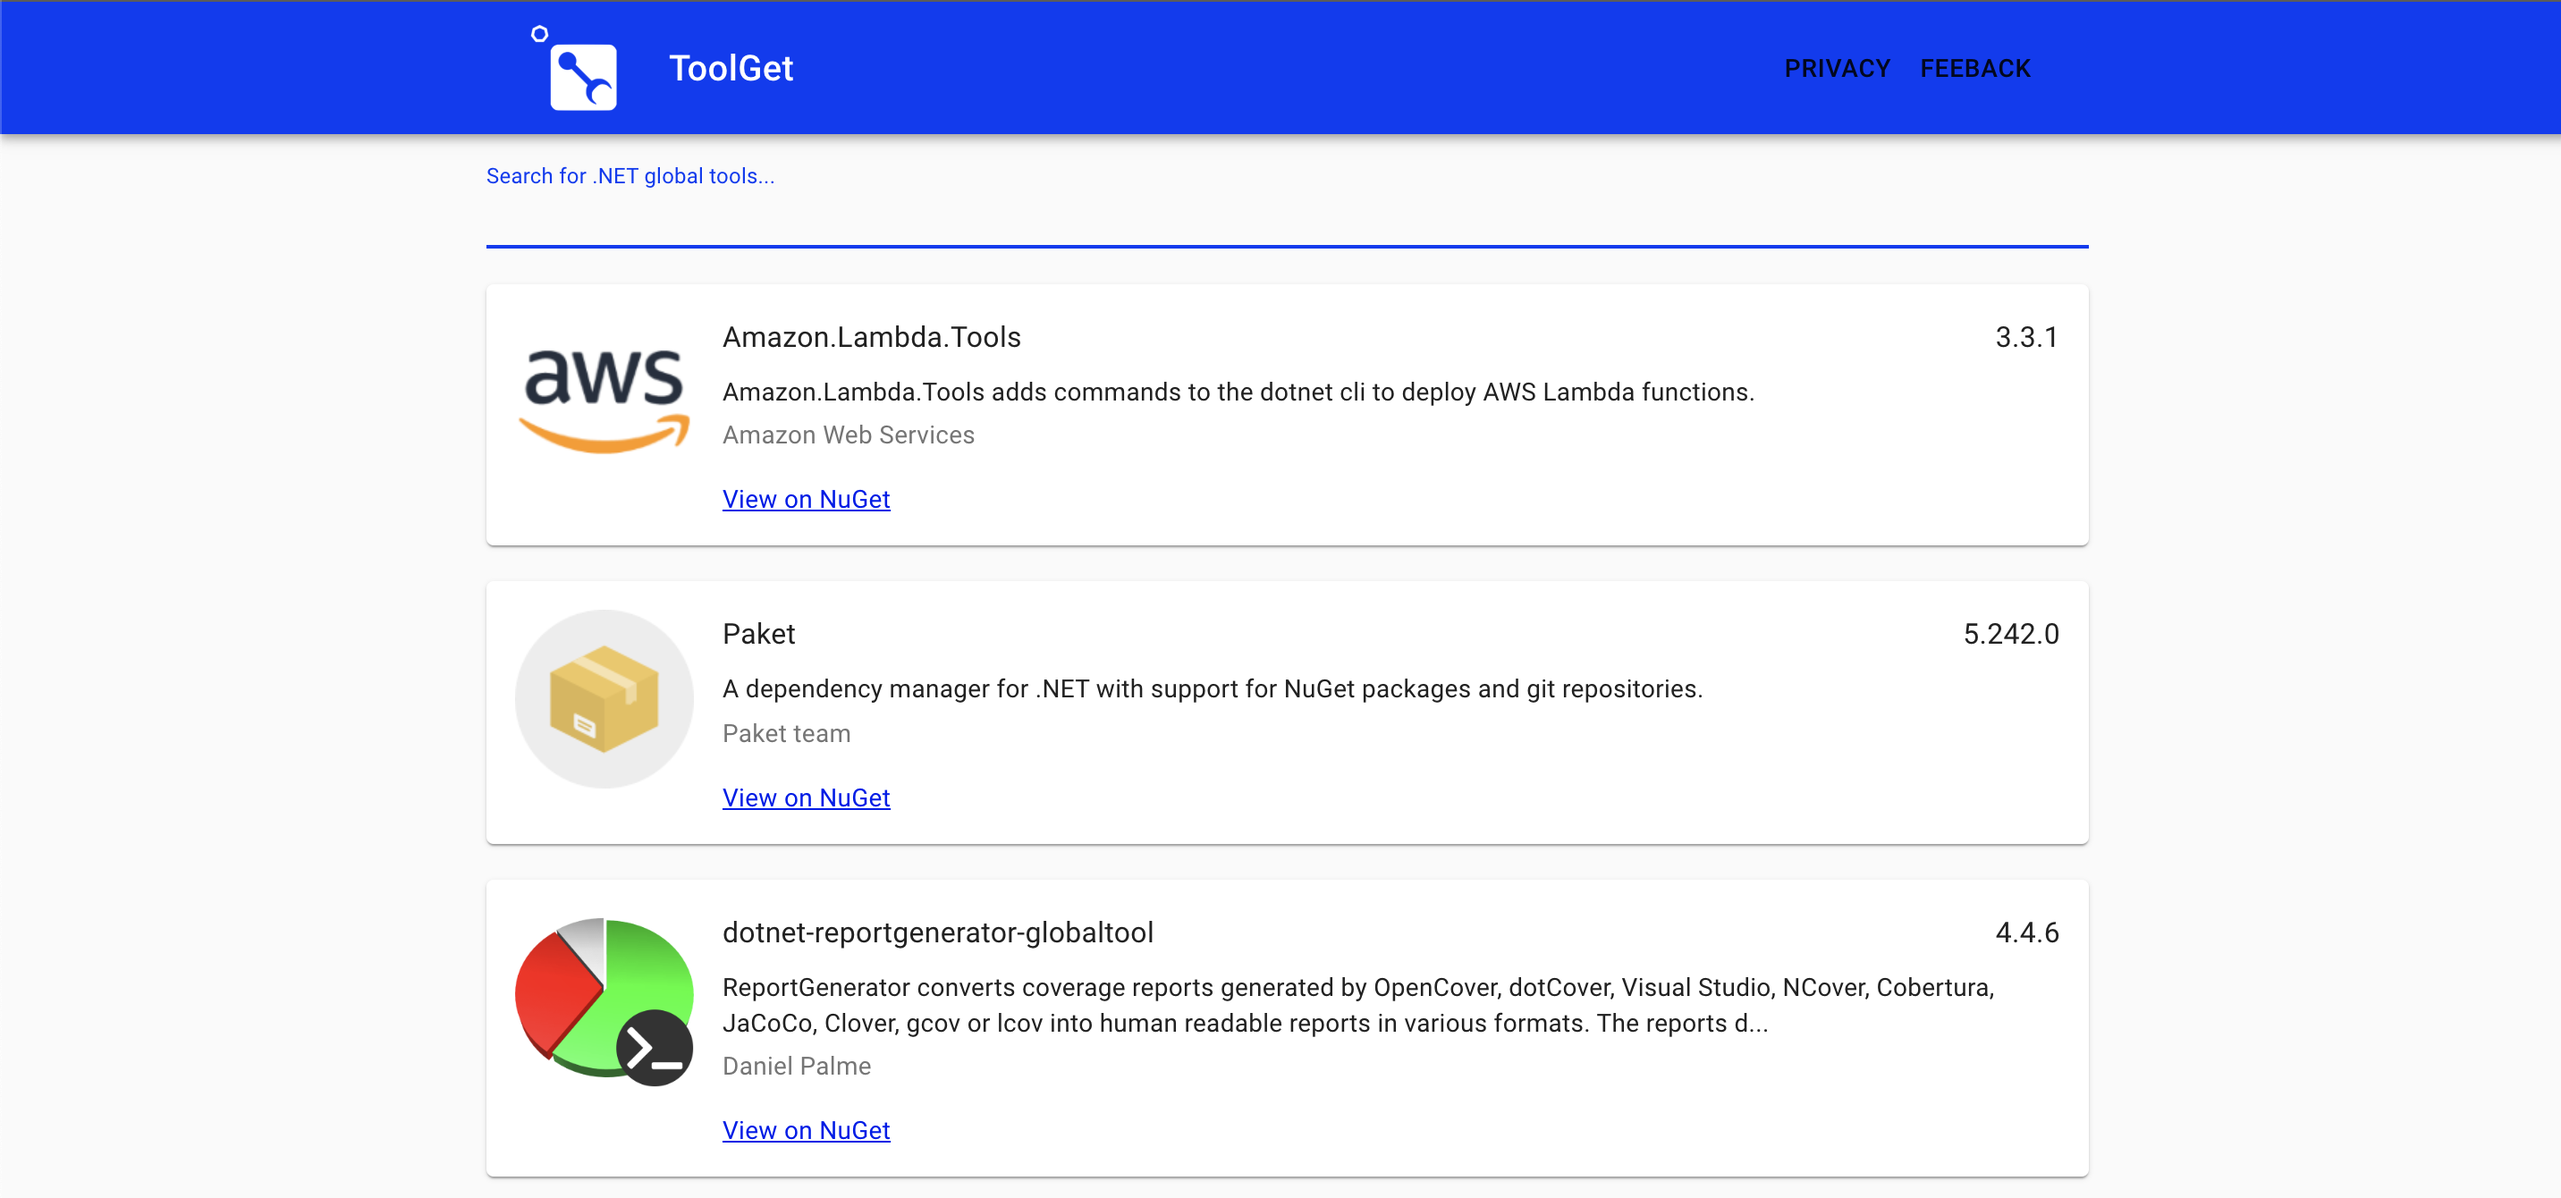
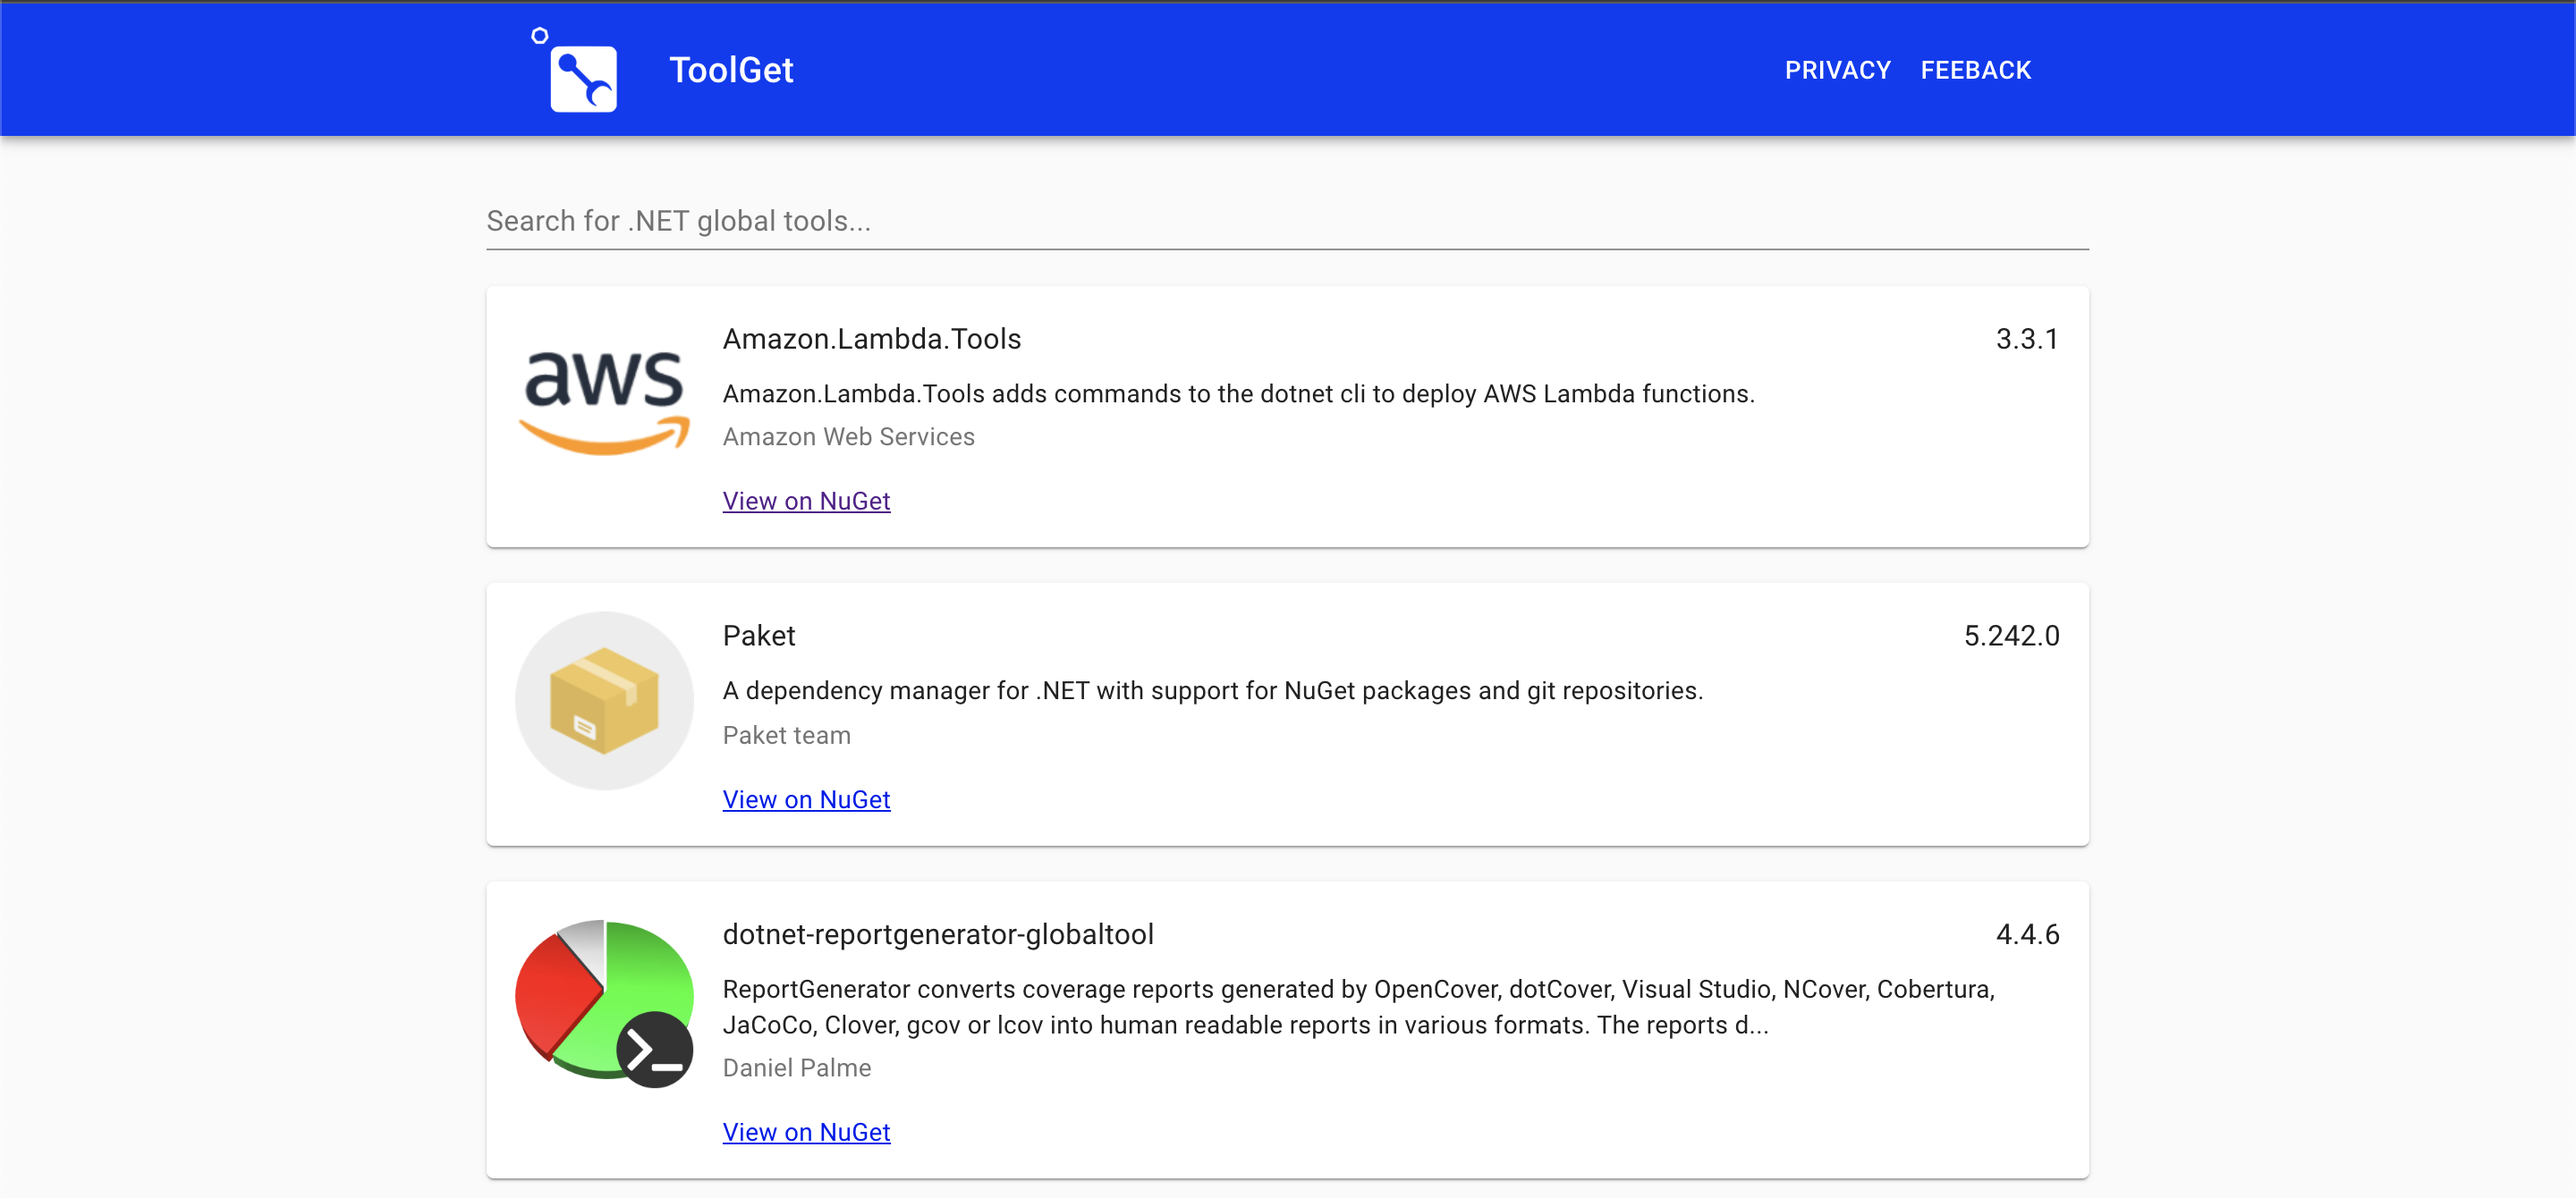
Improves accessibility of menu links (#37)

diff --git a/src/App.js b/src/App.js
@@ -26,9 +26,19 @@ const useStyles = makeStyles(theme => ({
 
 let theme = createMuiTheme({
   palette: {
-    primary: { 500: '#1432F5' }
-  }
-});
+    primary: {
+      light: '#705fff',
+      main: '#1432f5',
+      dark: '#0003c1',
+      contrastText: '#fff'
+    },
+    secondary: {
+      light: '#ffbfff',
+      main: '#f18df4',
+      dark: '#bd5cc1',
+      contrastText: '#000'
+    }
+}});
 theme = responsiveFontSizes(theme);
 
 export default function Album() {
@@ -48,8 +58,8 @@ export default function Album() {
                 <Typography variant="h6" className={classes.title}>
                   ToolGet
                 </Typography>
-                <Button href="https://github.com/marcusturewicz/toolget/blob/master/PRIVACY.md" target="_blank" rel="noopener noreferrer" >Privacy</Button>
-                <Button href="https://github.com/marcusturewicz/toolget/issues/new/choose" target="_blank" rel="noopener noreferrer" >Feeback</Button>
+                <Button color="inherit" href="https://github.com/marcusturewicz/toolget/blob/master/PRIVACY.md" target="_blank" rel="noopener noreferrer" >Privacy</Button>
+                <Button color="inherit" href="https://github.com/marcusturewicz/toolget/issues/new/choose" target="_blank" rel="noopener noreferrer" >Feeback</Button>
               </Toolbar>
             </Container>
           </AppBar>
